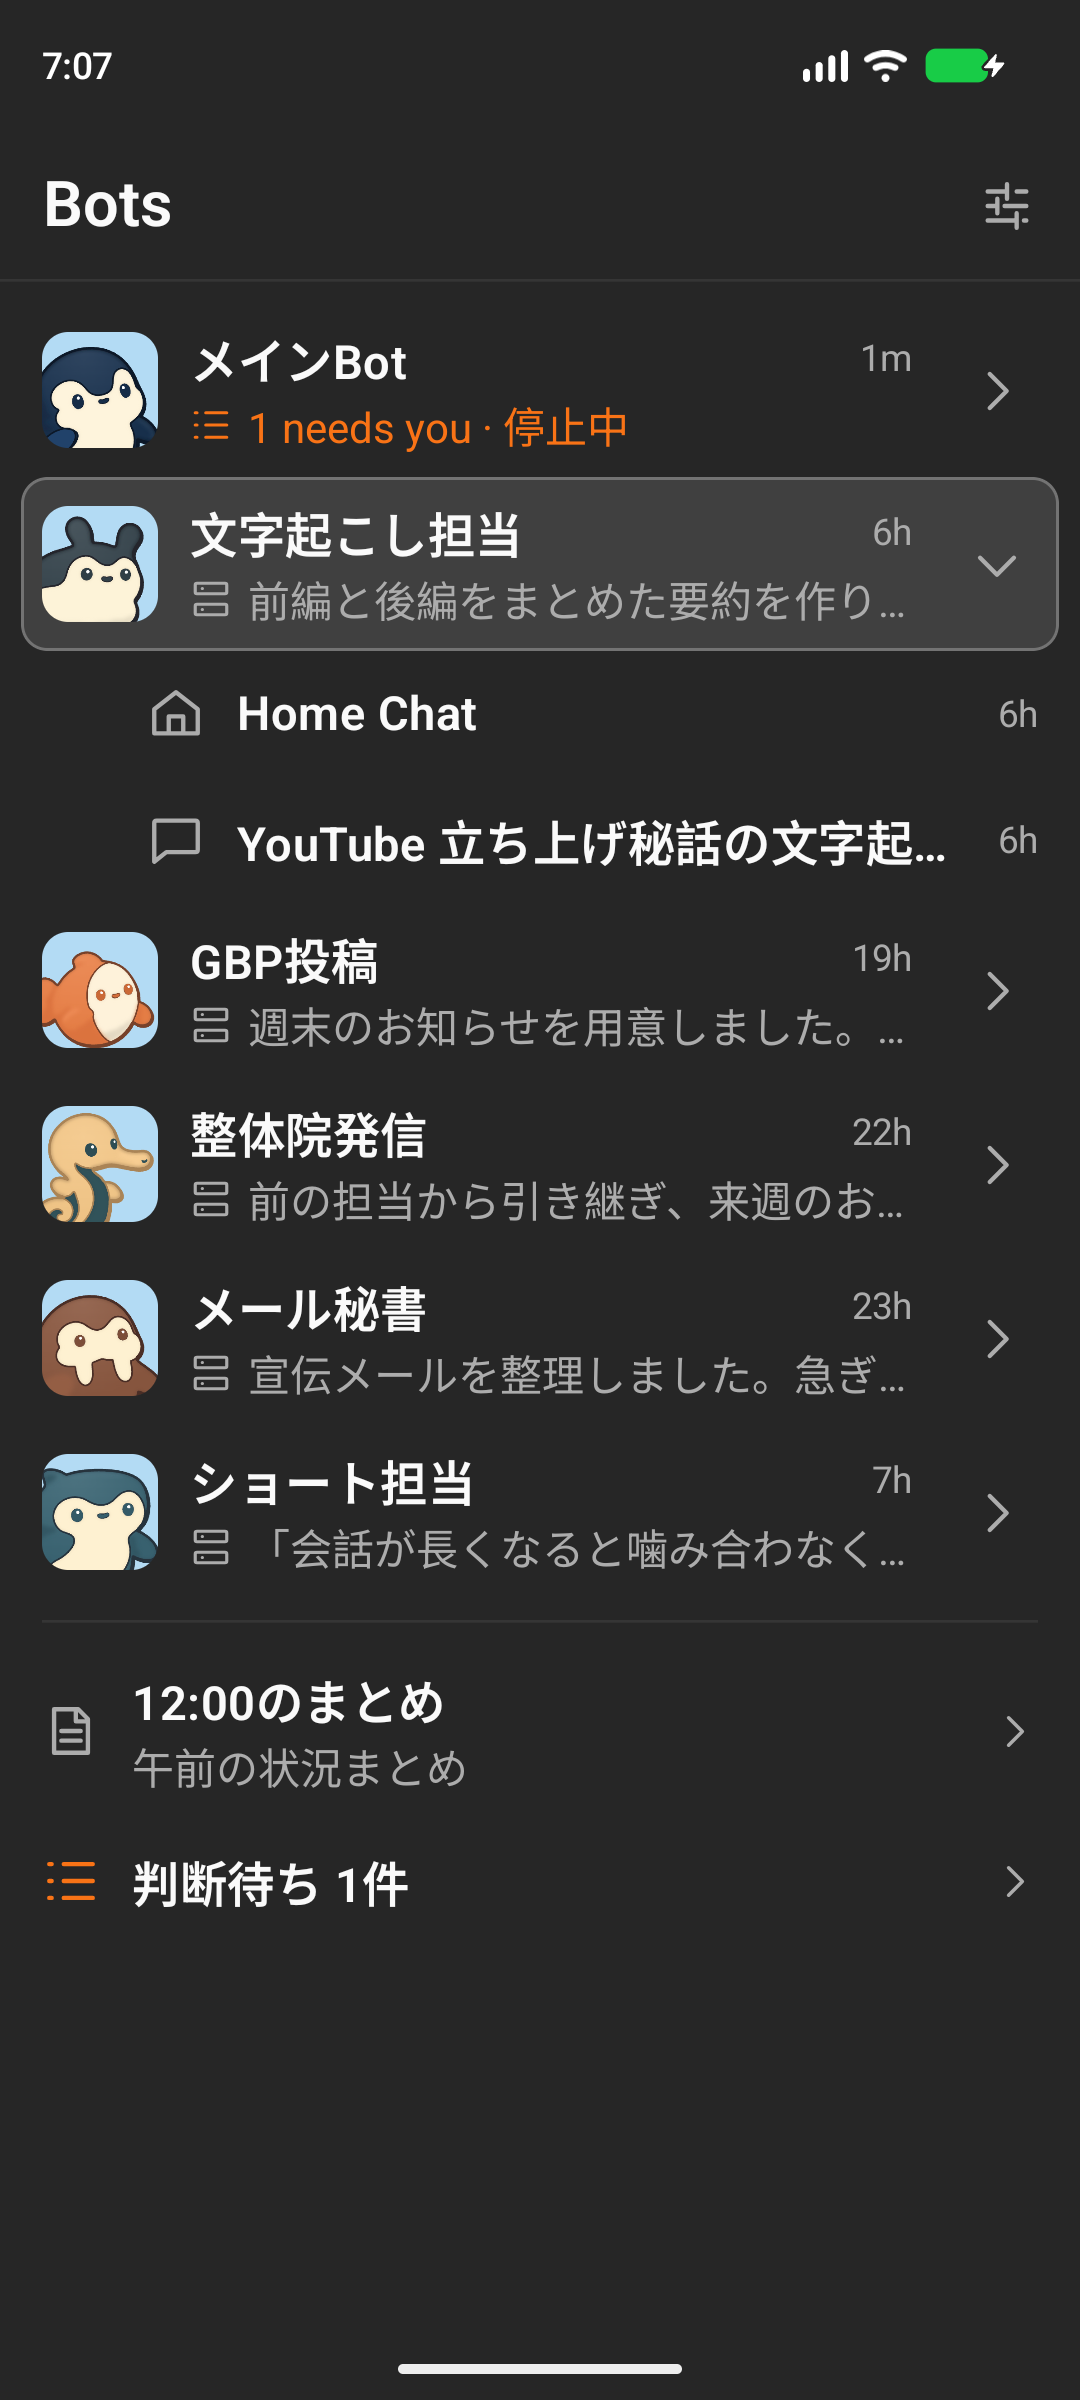
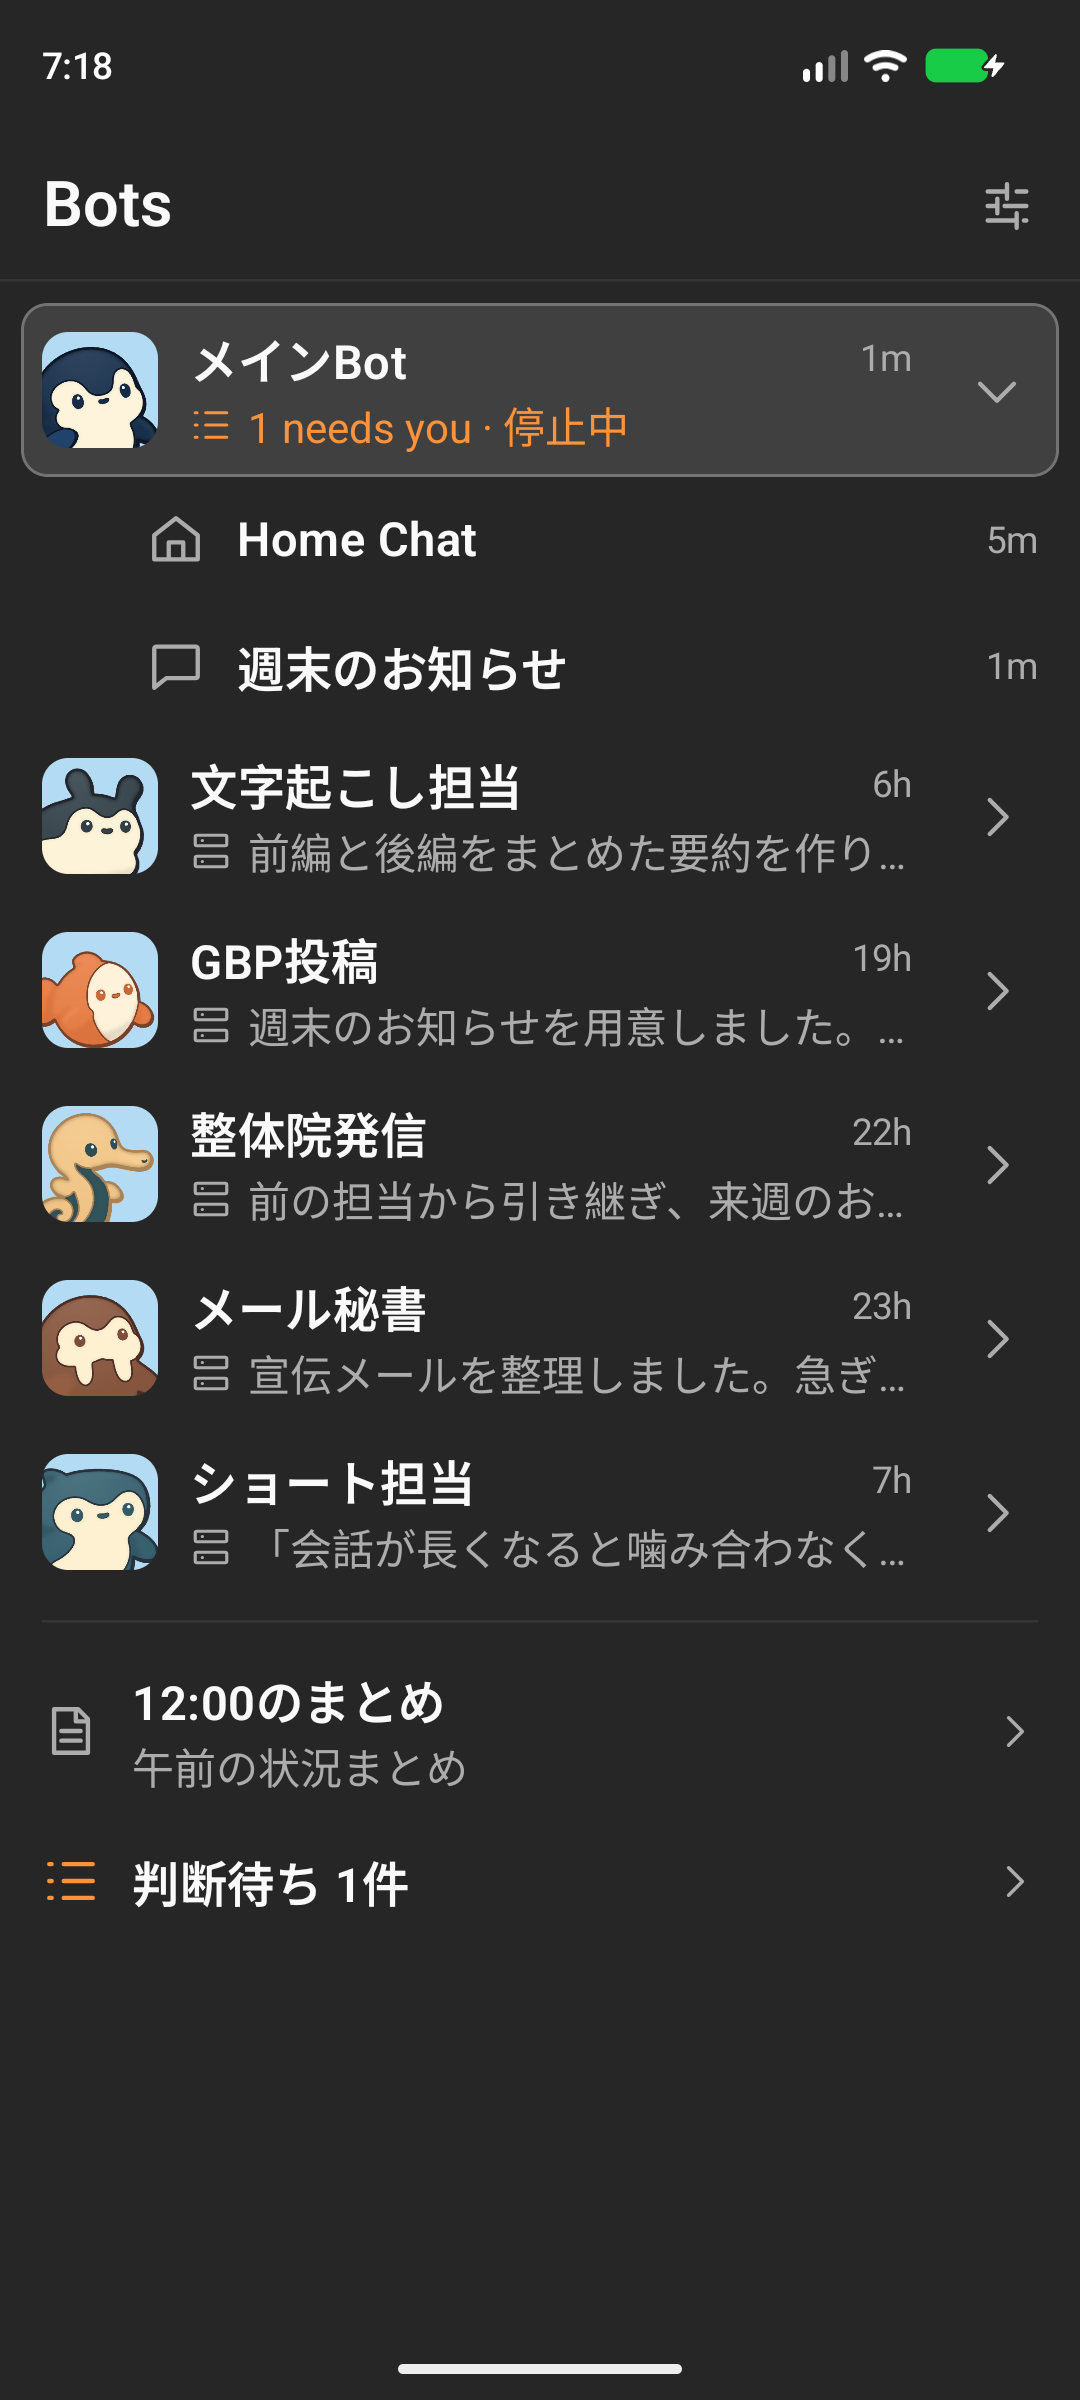
fix(android): 一覧の文字コントラストと停止表示を改善

diff --git a/android/app/src/main/java/dev/okumura/orcaremote/ListRows.kt b/android/app/src/main/java/dev/okumura/orcaremote/ListRows.kt
@@ -40,6 +40,7 @@ internal fun OrcaIcon(
 internal fun BotRow(bot: Bot, expanded: Boolean, open: () -> Unit, toggle: () -> Unit) {
     val colors = MaterialTheme.colorScheme
     val shape = MaterialTheme.shapes.small
+    val pausedWithPendingItems = bot.paused && bot.needsYou > 0
     val preview = if (bot.needsYou == 1) "1 needs you" else "${bot.needsYou} need you"
     Row(
         modifier = Modifier.fillMaxWidth().clip(shape)
@@ -53,13 +54,14 @@ internal fun BotRow(bot: Bot, expanded: Boolean, open: () -> Unit, toggle: () ->
             modifier = Modifier.weight(1f),
             leading = { Mascot(bot) },
             subtitle = when {
-                bot.needsYou > 0 && bot.paused -> "$preview · 停止中"
+                pausedWithPendingItems -> "$preview · 停止中"
                 bot.needsYou > 0 -> preview
                 bot.paused -> "停止中"
                 else -> listPreview(bot.lastSaid) ?: bot.specialty
             },
             subtitleIcon = if (bot.needsYou > 0) R.drawable.ic_pending else R.drawable.ic_activity,
             subtitleColor = if (bot.needsYou > 0) colors.tertiary else colors.onSurfaceVariant,
+            subtitleMaxLines = if (pausedWithPendingItems) Int.MAX_VALUE else 1,
             caption = relativeTime(bot.lastActivityAt, compact = true),
             showChevron = false,
         )
@@ -101,6 +103,7 @@ internal fun ListRow(
     caption: String? = null,
     showChevron: Boolean = true,
     titleMaxLines: Int = 1,
+    subtitleMaxLines: Int = 1,
 ) {
     Row(
         modifier.fillMaxWidth().clip(MaterialTheme.shapes.small)
@@ -134,7 +137,7 @@ internal fun ListRow(
                         it,
                         style = MaterialTheme.typography.bodyMedium,
                         color = subtitleColor,
-                        maxLines = 1,
+                        maxLines = subtitleMaxLines,
                         overflow = TextOverflow.Ellipsis,
                     )
                 }

diff --git a/android/app/src/main/java/dev/okumura/orcaremote/Theme.kt b/android/app/src/main/java/dev/okumura/orcaremote/Theme.kt
@@ -33,7 +33,7 @@ private val DarkColors = darkColorScheme(
     onSurfaceVariant = Color(0xFFACACAC), // textSecondary
     primary = Color(0xFF3276F2), // accentBlue
     onPrimary = Color(0xFF0A0A0A), // bgBase gives 4.72:1 on accentBlue (onAccent gives 4.19:1).
-    tertiary = Color(0xFFF97316), // agentQuestion
+    tertiary = Color(0xFFFB923C), // Lighten agentQuestion to reach 4.5:1 on expanded rows.
     outline = Color(0xFF737373), // inputBorder
     outlineVariant = Color(0x12FFFFFF), // borderSubtle, 7% alpha rounded to a byte
     error = Color(0xFFFF6568), // statusRed
@@ -49,13 +49,13 @@ private val LightColors = lightColorScheme(
     onSecondaryContainer = Color(0xFF0A0A0A), // textPrimary
     onBackground = Color(0xFF0A0A0A), // textPrimary
     onSurface = Color(0xFF0A0A0A), // textPrimary
-    onSurfaceVariant = Color(0xFF696969), // textSecondary
+    onSurfaceVariant = Color(0xFF636363), // Darken textSecondary to reach 4.5:1 on expanded rows.
     primary = Color(0xFF225BE3), // accentBlue
     onPrimary = Color(0xFFFFFFFF), // onAccent
-    tertiary = Color(0xFFC2410C), // Darken agentQuestion (#EA580C) for readable text on light surfaces.
+    tertiary = Color(0xFFB9380A), // Darken agentQuestion to reach 4.5:1 on expanded rows.
     outline = Color(0xFF737373), // inputBorder
     outlineVariant = Color(0xFFE5E5E5), // borderSubtle
-    error = Color(0xFFE40014), // statusRed
+    error = Color(0xFFD90014), // Darken statusRed to reach 4.5:1 on list surfaces.
 )
 
 internal val orcaAccentText: Color
